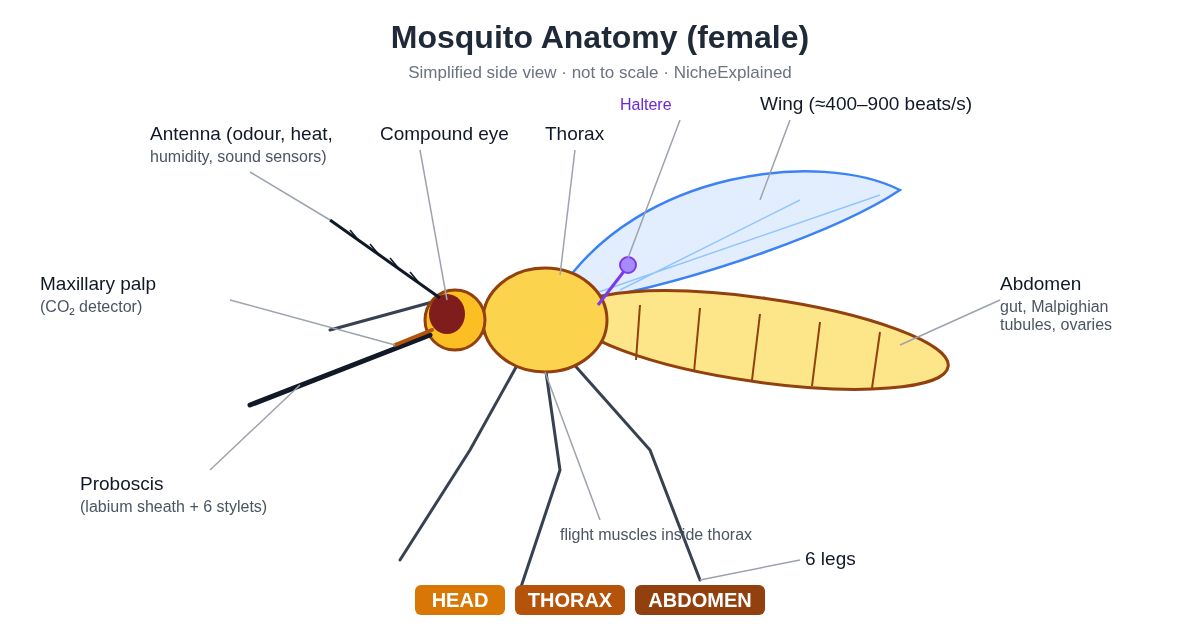
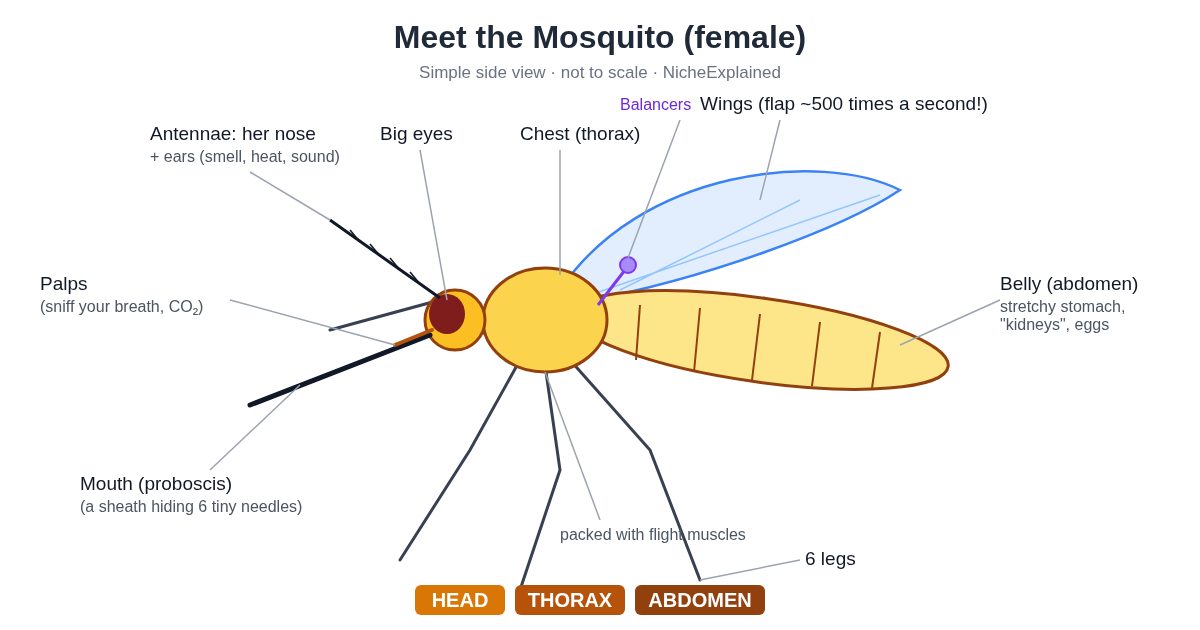
Rewrite mosquito article for general readers; simplify diagram labels

diff --git a/docs/mosquito-anatomy-explained/index.html b/docs/mosquito-anatomy-explained/index.html
@@ -3,24 +3,24 @@
 <head>
 <meta charset="utf-8">
 <meta name="viewport" content="width=device-width, initial-scale=1">
-<title>Mosquito Anatomy Explained: How Every Body Part Works (With Diagrams) | NicheExplained</title>
-<meta name="description" content="A labelled guide to mosquito anatomy: antennae and palps that sense CO2, the six-needle proboscis, wings, halteres and the abdomen, and why only females bite.">
+<title>How a Mosquito Works: 6 Tiny Needles, a Breath Detector and Other Surprises | NicheExplained</title>
+<meta name="description" content="That itchy bite starts with six tiny needles. A fun, plain-English tour of a mosquito's body, how it finds you, how a bite works, and why only females bite.">
 <link rel="canonical" href="https://aiimagecontents3-sudo.github.io/nicheexplained/mosquito-anatomy-explained/">
 <link rel="alternate" type="application/rss+xml" title="NicheExplained" href="https://aiimagecontents3-sudo.github.io/nicheexplained/feed.xml">
 <meta property="og:site_name" content="NicheExplained">
 <meta property="og:type" content="article">
-<meta property="og:title" content="Mosquito Anatomy Explained: How Every Body Part Works (With Diagrams)">
-<meta property="og:description" content="A labelled guide to mosquito anatomy: antennae and palps that sense CO2, the six-needle proboscis, wings, halteres and the abdomen, and why only females bite.">
+<meta property="og:title" content="How a Mosquito Works: 6 Tiny Needles, a Breath Detector and Other Surprises">
+<meta property="og:description" content="That itchy bite starts with six tiny needles. A fun, plain-English tour of a mosquito's body, how it finds you, how a bite works, and why only females bite.">
 <meta property="og:url" content="https://aiimagecontents3-sudo.github.io/nicheexplained/mosquito-anatomy-explained/">
 <meta property="og:image" content="https://aiimagecontents3-sudo.github.io/nicheexplained/images/mosquito/mosquito-anatomy-social.png">
 <meta name="twitter:card" content="summary_large_image">
-<meta name="twitter:title" content="Mosquito Anatomy Explained: How Every Body Part Works (With Diagrams)">
-<meta name="twitter:description" content="A labelled guide to mosquito anatomy: antennae and palps that sense CO2, the six-needle proboscis, wings, halteres and the abdomen, and why only females bite.">
+<meta name="twitter:title" content="How a Mosquito Works: 6 Tiny Needles, a Breath Detector and Other Surprises">
+<meta name="twitter:description" content="That itchy bite starts with six tiny needles. A fun, plain-English tour of a mosquito's body, how it finds you, how a bite works, and why only females bite.">
 <meta name="twitter:image" content="https://aiimagecontents3-sudo.github.io/nicheexplained/images/mosquito/mosquito-anatomy-social.png">
 
 <link rel="icon" href="/nicheexplained/favicon.svg" type="image/svg+xml">
 <link rel="stylesheet" href="/nicheexplained/style.css">
-<script type="application/ld+json">{"@context":"https://schema.org","@type":"Article","headline":"Mosquito Anatomy Explained: How Every Body Part Works (With Diagrams)","description":"A labelled guide to mosquito anatomy: antennae and palps that sense CO2, the six-needle proboscis, wings, halteres and the abdomen, and why only females bite.","datePublished":"2026-10-13T00:00:00.000Z","dateModified":"2026-10-13T00:00:00.000Z","author":{"@type":"Person","name":"NicheExplained"},"publisher":{"@type":"Organization","name":"NicheExplained"},"mainEntityOfPage":"https://aiimagecontents3-sudo.github.io/nicheexplained/mosquito-anatomy-explained/","image":"https://aiimagecontents3-sudo.github.io/nicheexplained/images/mosquito/mosquito-anatomy-social.png","wordCount":1423,"keywords":"biology, insects, science explained"}</script>
+<script type="application/ld+json">{"@context":"https://schema.org","@type":"Article","headline":"How a Mosquito Works: 6 Tiny Needles, a Breath Detector and Other Surprises","description":"That itchy bite starts with six tiny needles. A fun, plain-English tour of a mosquito's body, how it finds you, how a bite works, and why only females bite.","datePublished":"2026-10-13T00:00:00.000Z","dateModified":"2026-10-13T00:00:00.000Z","author":{"@type":"Person","name":"NicheExplained"},"publisher":{"@type":"Organization","name":"NicheExplained"},"mainEntityOfPage":"https://aiimagecontents3-sudo.github.io/nicheexplained/mosquito-anatomy-explained/","image":"https://aiimagecontents3-sudo.github.io/nicheexplained/images/mosquito/mosquito-anatomy-social.png","wordCount":1325,"keywords":"biology, insects, science explained"}</script>
 
 </head>
 <body>
@@ -30,105 +30,107 @@
 </div></header>
 <main class="wrap"><article class="post">
 <header><p class="meta"><time datetime="2026-10-13T00:00:00.000Z">13 October 2026</time> · 6 min read · biology, insects, science explained</p>
-<h1>Mosquito Anatomy Explained: How Every Body Part Works (With Diagrams)</h1><p class="lede">A labelled guide to mosquito anatomy: antennae and palps that sense CO2, the six-needle proboscis, wings, halteres and the abdomen, and why only females bite.</p></header>
+<h1>How a Mosquito Works: 6 Tiny Needles, a Breath Detector and Other Surprises</h1><p class="lede">That itchy bite starts with six tiny needles. A fun, plain-English tour of a mosquito's body, how it finds you, how a bite works, and why only females bite.</p></header>
 <aside class="box sponsor"><span class="label">Sponsor slot</span> Want to reach curious readers? <a href="/nicheexplained/about/#sponsor">Sponsor NicheExplained</a>.</aside>
-<div class="content"><p>A mosquito weighs a few milligrams, yet it packs a CO₂ detector, a heat sensor, a hearing organ, gyroscopes and a six-needle drill into that tiny frame. Here&#39;s how each part of a mosquito&#39;s body works, from head to tail — with two original diagrams.</p>
-<p><img src="../images/mosquito/mosquito-anatomy-diagram.svg" alt="Labelled side-view diagram of a female mosquito showing head, thorax and abdomen with antenna, compound eye, maxillary palp, proboscis, wing, haltere and legs"></p>
-<p>Like all insects, a mosquito has three body sections: the <strong>head</strong> (sensing and feeding), the <strong>thorax</strong> (flight and walking) and the <strong>abdomen</strong> (digestion, excretion and reproduction).</p>
-<h2>The head: a flying sensor package</h2>
-<h3>Compound eyes</h3>
-<p>Two large compound eyes wrap around most of the head. Each is made of many small lenses, giving a wide field of view that is good at spotting movement and contrast. Vision matters most at medium range: research on <em>Aedes aegypti</em> found that smelling CO₂ makes females pay more attention to dark, distinct objects — like a person.</p>
-<h3>Antennae: noses and ears</h3>
-<p>The two antennae do several jobs at once. They are covered in tiny sensory hairs (sensilla) that detect human odours such as <strong>lactic acid</strong> and ammonia — chemicals largely produced by skin bacteria breaking down sweat. Disabling a single receptor gene, <em>Ir8a</em>, makes <em>Aedes aegypti</em> females stop responding to lactic acid and become much less attracted to human odour.</p>
-<p>Antennae also help sense <strong>heat and humidity</strong> close to skin, and they are ears. At the base of each antenna sits <strong>Johnston&#39;s organ</strong>, which picks up vibrations of the antenna caused by sound. Male antennae are bushy (plumose) and their Johnston&#39;s organs hold more than 15,000 neurons — about twice the female count — because males use them to hear the wingbeat of females.</p>
-<h3>Maxillary palps: the CO₂ detector</h3>
-<p>Beside the proboscis are two short feelers called <strong>maxillary palps</strong>. In females they carry receptors for <strong>carbon dioxide</strong> and the mushroom-like odour <strong>1-octen-3-ol</strong>, both given off by people and animals. Every breath you exhale is a CO₂ plume that tells a hungry mosquito a host is near — and CO₂ also &quot;switches on&quot; her sensitivity to other host odours.</p>
-<h2>The proboscis: six needles, not one</h2>
-<p>What looks like a single needle is actually a bundle of <strong>six stylets</strong> tucked inside a flexible sheath.</p>
-<p><img src="../images/mosquito/mosquito-proboscis-stylets.svg" alt="Diagram of the mosquito proboscis: cross-section showing labrum, two mandibles, two maxillae and hypopharynx inside the labium, and a side view of the stylets entering skin to reach a capillary"></p>
+<div class="content"><p>You&#39;re drifting off to sleep. Then you hear it: that thin, whiny <em>bzzzzz</em> right next to your ear.</p>
+<p>That tiny pest weighs less than a grain of rice. Yet it carries a breath detector, a sweat sniffer, built-in ears, two mini gyroscopes and a mouth made of <strong>six tiny needles</strong>. Honestly, it&#39;s a marvel of engineering. A very annoying one.</p>
+<p>Let&#39;s take a mosquito apart (on paper) and see how each bit works.</p>
+<p><img src="../images/mosquito/mosquito-anatomy-diagram.svg" alt="Simple labelled diagram of a female mosquito: antennae, big eyes, palps, needle-like mouth, chest with wings and balancers, six legs and a stretchy belly"></p>
+<p>Like every insect, a mosquito comes in three parts: a <strong>head</strong> for sensing and eating, a <strong>chest</strong> (thorax) for flying and walking, and a <strong>belly</strong> (abdomen) for digesting and making eggs.</p>
+<h2>The head: a flying smoke detector</h2>
+<h3>Big eyes</h3>
+<p>Most of the head is two big bulging eyes. Each one is made of many tiny lenses, which makes them great at spotting movement. <strong>Did you know?</strong> Once a mosquito smells your breath, she starts paying extra attention to dark shapes nearby. That dark shape is often you.</p>
+<h3>Antennae: a nose and ears in one</h3>
+<p>Those feathery antennae are covered in tiny hairs that smell. They&#39;re tuned to the scents of your skin, like <strong>lactic acid</strong> from sweat. Fun fact: much of what she smells is made by the bacteria on your skin snacking on your sweat. Thanks, bacteria.</p>
+<p>Up close, the antennae also pick up warmth and moisture rising from your skin. And they double as ears! A sensor at the base feels the antenna wiggle when sound hits it. Males have extra-bushy antennae and about twice as many hearing cells, because they&#39;re listening for the hum of females.</p>
+<h3>Palps: the breath detector</h3>
+<p>Next to the mouth are two short feelers called <strong>palps</strong>. They sniff out <strong>carbon dioxide</strong>, the gas you breathe out. Every exhale is basically a &quot;dinner&#39;s here!&quot; sign. Smelling CO₂ also makes her more sensitive to your other smells, like turning up the volume.</p>
+<h2>The mouth: six needles, not one</h2>
+<p>What looks like one needle is really a bundle of <strong>six tiny needles</strong> (scientists call them <em>stylets</em>), tucked inside a soft outer sleeve.</p>
+<p><img src="../images/mosquito/mosquito-proboscis-stylets.svg" alt="Diagram of how a mosquito bite works: a slice through the mouth showing the drinking straw, two holders, two saws and the saliva tube inside the sheath, plus the needles entering skin to reach a blood vessel"></p>
+<p>Here&#39;s the toolkit:</p>
 <ul>
-<li><strong>Labium</strong> – the outer, lip-like sheath. It does <strong>not</strong> pierce skin; it buckles back and stays outside.</li>
-<li><strong>Maxillae (2)</strong> – stylets tipped with tiny teeth that <strong>saw</strong> through skin.</li>
-<li><strong>Mandibles (2)</strong> – help hold the tissue apart while the maxillae cut.</li>
-<li><strong>Labrum</strong> – the largest, stiffest stylet. Its groove forms the <strong>food canal</strong>, and sensors near its tip help steer it towards a blood vessel.</li>
-<li><strong>Hypopharynx</strong> – a hollow stylet carrying the <strong>saliva canal</strong>, separate from the food canal, so the mosquito can drool and drink at the same time.</li>
+<li><strong>The sleeve</strong> (labium): it never goes into your skin. It scrunches back like a pushed-up sleeve.</li>
+<li><strong>Two saws</strong> (maxillae): needles with tiny teeth that cut through skin.</li>
+<li><strong>Two holders</strong> (mandibles): they keep the hole open while the saws work.</li>
+<li><strong>The straw</strong> (labrum): the biggest needle. Blood travels up it, and its tip can &quot;smell&quot; its way to a blood vessel.</li>
+<li><strong>The spit tube</strong> (hypopharynx): it drips saliva in through its own little channel, so she can spit and sip at the same time.</li>
 </ul>
 <h3>How a bite actually works</h3>
 <ol>
-<li><strong>Landing and probing.</strong> She tests the skin, then the labium folds back as the stylet bundle (fascicle) is pushed in.</li>
-<li><strong>Sawing.</strong> Head movements drive the toothed maxillae through the skin. The fascicle is flexible and bends sideways to search beneath the surface.</li>
-<li><strong>Saliva.</strong> The hypopharynx injects saliva containing substances that stop blood clotting and widen vessels. Your immune reaction to these proteins is what makes the bite itch — and saliva is also how pathogens like dengue or malaria parasites get in.</li>
-<li><strong>Drinking.</strong> Once the labrum enters a vessel, two pumps in her head — the cibarial and pharyngeal pumps — create suction to draw blood up the food canal.</li>
+<li><strong>Land and push.</strong> The sleeve folds back and the needle bundle slides in.</li>
+<li><strong>Saw.</strong> She wiggles her head to drive the saws in. The tip is bendy and fishes around under your skin for a blood vessel.</li>
+<li><strong>Spit.</strong> Saliva goes in to stop your blood clotting and widen the vessel. <strong>That&#39;s why bites itch</strong>: your body is reacting to her spit. Sadly, that spit is also how diseases like dengue and malaria get passed on.</li>
+<li><strong>Sip.</strong> Once the straw hits a vessel, two tiny pumps in her head suck the blood up. Like a milkshake, but much grosser.</li>
 </ol>
-<h2>The thorax: the flight engine</h2>
-<p>The thorax is packed with flight muscles and carries the wings, halteres and all six legs.</p>
+<h2>The chest: the engine room</h2>
+<p>The chest is packed with flight muscles.</p>
 <ul>
-<li><strong>Wings.</strong> Mosquitoes have one pair of scaled wings and beat them astonishingly fast. Female <em>Aedes aegypti</em> average roughly <strong>500 beats per second</strong>, males around <strong>800</strong>, varying with species and temperature. That rapid beat is the high-pitched whine you hear.</li>
-<li><strong>Halteres.</strong> The second pair of wings has evolved into tiny knobbed stalks. They vibrate during flight and act like <strong>gyroscopes</strong>, detecting body rotation so the mosquito can stay stable — a feature shared by all true flies (Diptera).</li>
-<li><strong>Legs.</strong> Six long, thin legs for landing and walking. They also carry taste and touch sensors.</li>
+<li><strong>Wings:</strong> mosquitoes flap <em>ridiculously</em> fast. Females beat their wings around 500 times a second, males around 800. That&#39;s the whine you hear. <strong>Did you know?</strong> Couples match their buzzing to &quot;sing a duet&quot; before mating.</li>
+<li><strong>Balancers</strong> (halteres): instead of a second pair of wings, mosquitoes have two tiny knobbed stalks. They wobble during flight and work like a gyroscope to keep her steady. All true flies have them.</li>
+<li><strong>Legs:</strong> six long, skinny legs for landing softly (which is how she sneaks onto you).</li>
 </ul>
-<p>The wingbeat doubles as a mating call: males home in on the lower-pitched female tone, and pairs adjust their flight tones to &quot;duet&quot; before mating.</p>
-<h2>The abdomen: blood tank, kidneys and egg factory</h2>
-<p>The long, segmented abdomen holds the gut, the excretory organs and, in females, the ovaries. Its flexible membranes let it <strong>stretch enormously</strong>: in under two minutes, an <em>Aedes aegypti</em> female can more than double her body weight with blood.</p>
-<p>That&#39;s a dangerous load to fly with, so she starts urinating even before she finishes eating. The <strong>Malpighian tubules</strong> — insect kidneys — pump out a large share of the excess water and salt within about two hours, concentrating the nutritious part of the meal. Over the next day they shift towards clearing waste from blood digestion.</p>
-<p>The protein and iron in the meal fuel <strong>egg production</strong>. After feeding, a female loses interest in hosts for a while, digests, matures a batch of eggs and then looks for water to lay them.</p>
-<h2>Male vs female mosquitoes</h2>
+<h2>The belly: a stretchy fuel tank</h2>
+<p>The belly holds the stomach, the egg-making parts and some tiny tubes that work like kidneys. And it stretches. A lot. In under two minutes, a female can <strong>more than double her weight</strong> in blood. Imagine finishing lunch weighing twice as much as when you sat down.</p>
+<p>Flying like that is risky, so she starts peeing out the extra water <strong>while she&#39;s still drinking</strong>. Those kidney-like tubes flush out much of the water and salt within a couple of hours, leaving the good stuff behind.</p>
+<p>What&#39;s the good stuff for? <strong>Eggs.</strong> Blood is packed with protein, and she uses it to build a batch of eggs. Then she goes looking for water to lay them in.</p>
+<h2>Boys vs girls</h2>
 <table>
 <thead>
 <tr>
-<th>Feature</th>
+<th></th>
 <th>Female</th>
 <th>Male</th>
 </tr>
 </thead>
 <tbody><tr>
 <td>Antennae</td>
-<td>Sparse hairs</td>
-<td>Bushy, feathery</td>
+<td>Lightly hairy</td>
+<td>Big and bushy</td>
 </tr>
 <tr>
 <td>Hearing</td>
-<td>Sensitive</td>
-<td>More sensitive (≈2× Johnston&#39;s organ neurons)</td>
+<td>Good</td>
+<td>Even better</td>
 </tr>
 <tr>
-<td>Wingbeat</td>
+<td>Buzz</td>
 <td>Lower pitch</td>
 <td>Higher pitch</td>
 </tr>
 <tr>
-<td>Diet</td>
-<td>Nectar <strong>and</strong> blood</td>
-<td>Nectar / plant sugars only</td>
+<td>Food</td>
+<td>Flower nectar <strong>and</strong> blood</td>
+<td>Nectar and plant sugars only</td>
 </tr>
 <tr>
-<td>Bites?</td>
-<td>Yes</td>
-<td>No</td>
+<td>Bites you?</td>
+<td>Yes 😬</td>
+<td>Never</td>
 </tr>
 </tbody></table>
-<p>In many species (such as <em>Aedes</em> and <em>Culex</em>), males also have long maxillary palps while females&#39; are short.</p>
 <h2>Why only females bite</h2>
-<p>Both sexes drink nectar for energy. <strong>Only females need blood</strong>, because it supplies the protein required to develop eggs. Males&#39; mouthparts aren&#39;t adapted for piercing skin, so they never bite.</p>
-<h2>FAQ</h2>
+<p>Both males and females live on sugary plant nectar for energy. But a female needs extra protein to make eggs, and blood is a rich, ready-made source. Males don&#39;t make eggs, so they skip the blood entirely.</p>
+<p>So the next time one bites you, it&#39;s not personal. She&#39;s just eating for a whole batch of babies.</p>
+<h2>Quick FAQ</h2>
 <p><strong>How many needles does a mosquito have?</strong>
-Six stylets (two maxillae, two mandibles, the labrum and the hypopharynx), wrapped in a seventh part, the labium sheath.</p>
-<p><strong>How do mosquitoes find people?</strong>
-At a distance, CO₂ from breath (detected by the palps) and body odours (detected by the antennae); closer up, vision, heat and humidity.</p>
-<p><strong>Why does a mosquito bite itch?</strong>
-It&#39;s your immune response to proteins in mosquito saliva injected during the bite.</p>
-<p><strong>Why do mosquitoes buzz?</strong>
-Their wings beat several hundred times per second; the sound is that wingbeat frequency.</p>
+Six! Two saws, two holders, one straw and one spit tube, all inside a soft sleeve.</p>
+<p><strong>How do mosquitoes find me?</strong>
+From a distance they smell your breath and body odour. Up close they use their eyes and feel your warmth and moisture.</p>
+<p><strong>Why do mosquito bites itch?</strong>
+Your body is reacting to the mosquito&#39;s spit.</p>
+<p><strong>Why do they buzz?</strong>
+That&#39;s the sound of wings flapping hundreds of times a second.</p>
 <p><strong>Do mosquitoes have teeth?</strong>
-Not true teeth, but the maxillae have tiny saw-like teeth for cutting skin.</p>
+Not real teeth, but the two saw needles have tiny teeth on them.</p>
 <p><strong>Do male mosquitoes bite?</strong>
-No. Males feed only on nectar and other sugars.</p>
+No. They only drink nectar. The biters are all female.</p>
 <h2>Key takeaways</h2>
 <ul>
-<li>Antennae smell and hear; maxillary palps detect CO₂.</li>
-<li>The &quot;needle&quot; is six stylets in a sheath: two saw, two hold, one drinks, one injects saliva.</li>
-<li>Halteres keep the mosquito stable; wings beat hundreds of times per second.</li>
-<li>The abdomen stretches to take more than her body weight in blood, and Malpighian tubules quickly dump excess water.</li>
+<li>Antennae smell and hear; palps detect your breath.</li>
+<li>The &quot;needle&quot; is six needles: two saw, two hold, one sips, one spits.</li>
+<li>Wings flap hundreds of times a second; tiny balancers keep her steady.</li>
+<li>Her belly stretches to hold more than her body weight in blood.</li>
 <li>Only females bite, to get protein for their eggs.</li>
 </ul>
 <h2>Sources</h2>
@@ -147,7 +149,7 @@ No. Males feed only on nectar and other sugars.</p>
 <li>Barredo &amp; DeGennaro (2020), &quot;Not Just from Blood: Mosquito Nutrient Acquisition from Nectar Sources,&quot; <em>Trends in Parasitology</em> — <a href="https://www.cell.com/trends/parasitology/fulltext/S1471-4922(20)30040-4">https://www.cell.com/trends/parasitology/fulltext/S1471-4922(20)30040-4</a></li>
 </ul>
 </div>
-<p class="share">Share: <a href="https://twitter.com/intent/tweet?url=https%3A%2F%2Faiimagecontents3-sudo.github.io%2Fnicheexplained%2Fmosquito-anatomy-explained%2F&text=Mosquito%20Anatomy%20Explained%3A%20How%20Every%20Body%20Part%20Works%20(With%20Diagrams)" target="_blank" rel="noopener">X</a> · <a href="https://www.linkedin.com/sharing/share-offsite/?url=https%3A%2F%2Faiimagecontents3-sudo.github.io%2Fnicheexplained%2Fmosquito-anatomy-explained%2F" target="_blank" rel="noopener">LinkedIn</a> · <a href="https://www.reddit.com/submit?url=https%3A%2F%2Faiimagecontents3-sudo.github.io%2Fnicheexplained%2Fmosquito-anatomy-explained%2F&title=Mosquito%20Anatomy%20Explained%3A%20How%20Every%20Body%20Part%20Works%20(With%20Diagrams)" target="_blank" rel="noopener">Reddit</a> · <a href="mailto:?subject=Mosquito%20Anatomy%20Explained%3A%20How%20Every%20Body%20Part%20Works%20(With%20Diagrams)&body=https%3A%2F%2Faiimagecontents3-sudo.github.io%2Fnicheexplained%2Fmosquito-anatomy-explained%2F">Email</a></p>
+<p class="share">Share: <a href="https://twitter.com/intent/tweet?url=https%3A%2F%2Faiimagecontents3-sudo.github.io%2Fnicheexplained%2Fmosquito-anatomy-explained%2F&text=How%20a%20Mosquito%20Works%3A%206%20Tiny%20Needles%2C%20a%20Breath%20Detector%20and%20Other%20Surprises" target="_blank" rel="noopener">X</a> · <a href="https://www.linkedin.com/sharing/share-offsite/?url=https%3A%2F%2Faiimagecontents3-sudo.github.io%2Fnicheexplained%2Fmosquito-anatomy-explained%2F" target="_blank" rel="noopener">LinkedIn</a> · <a href="https://www.reddit.com/submit?url=https%3A%2F%2Faiimagecontents3-sudo.github.io%2Fnicheexplained%2Fmosquito-anatomy-explained%2F&title=How%20a%20Mosquito%20Works%3A%206%20Tiny%20Needles%2C%20a%20Breath%20Detector%20and%20Other%20Surprises" target="_blank" rel="noopener">Reddit</a> · <a href="mailto:?subject=How%20a%20Mosquito%20Works%3A%206%20Tiny%20Needles%2C%20a%20Breath%20Detector%20and%20Other%20Surprises&body=https%3A%2F%2Faiimagecontents3-sudo.github.io%2Fnicheexplained%2Fmosquito-anatomy-explained%2F">Email</a></p>
 </article><aside class="box newsletter"><h2>Get one niche explained, daily</h2><p>Free. No spam. Unsubscribe anytime.</p><form action="https://buttondown.com/api/emails/embed-subscribe/YOUR_BUTTONDOWN_USERNAME" method="post" target="_blank" class="nl-form">
         <label for="nl-email" class="sr">Email address</label>
         <input id="nl-email" type="email" name="email" placeholder="you@example.com" required>

diff --git a/docs/index.html b/docs/index.html
@@ -33,8 +33,8 @@
         <input id="nl-email" type="email" name="email" placeholder="you@example.com" required>
         <button type="submit">Subscribe</button></form></aside><ul class="list"><li class="card"><a href="/nicheexplained/lindy-effect-explained/"><h2>The Lindy Effect Explained: Why Old Things Tend to Last Longer</h2></a>
 <p class="meta"><time datetime="2026-10-13T00:00:00.000Z">13 October 2026</time> · 4 min read</p><p>What the Lindy effect is, where the name comes from, the maths behind it, real examples, and where the rule of thumb breaks down.</p></li>
-<li class="card"><a href="/nicheexplained/mosquito-anatomy-explained/"><h2>Mosquito Anatomy Explained: How Every Body Part Works (With Diagrams)</h2></a>
-<p class="meta"><time datetime="2026-10-13T00:00:00.000Z">13 October 2026</time> · 6 min read</p><p>A labelled guide to mosquito anatomy: antennae and palps that sense CO2, the six-needle proboscis, wings, halteres and the abdomen, and why only females bite.</p></li></ul><aside class="box sponsor"><span class="label">Sponsor slot</span> Want to reach curious readers? <a href="/nicheexplained/about/#sponsor">Sponsor NicheExplained</a>.</aside></main>
+<li class="card"><a href="/nicheexplained/mosquito-anatomy-explained/"><h2>How a Mosquito Works: 6 Tiny Needles, a Breath Detector and Other Surprises</h2></a>
+<p class="meta"><time datetime="2026-10-13T00:00:00.000Z">13 October 2026</time> · 6 min read</p><p>That itchy bite starts with six tiny needles. A fun, plain-English tour of a mosquito's body, how it finds you, how a bite works, and why only females bite.</p></li></ul><aside class="box sponsor"><span class="label">Sponsor slot</span> Want to reach curious readers? <a href="/nicheexplained/about/#sponsor">Sponsor NicheExplained</a>.</aside></main>
 <footer class="site-footer"><div class="wrap">
 <p>© 2026 NicheExplained · <a href="/nicheexplained/about/">About</a> · <a href="/nicheexplained/privacy/">Privacy</a> · <a href="/nicheexplained/feed.xml">RSS</a></p>
 </div></footer>

diff --git a/content/articles/2026-10-13-mosquito-anatomy-explained.md b/content/articles/2026-10-13-mosquito-anatomy-explained.md
@@ -1,111 +1,115 @@
 ---
-title: "Mosquito Anatomy Explained: How Every Body Part Works (With Diagrams)"
-description: "A labelled guide to mosquito anatomy: antennae and palps that sense CO2, the six-needle proboscis, wings, halteres and the abdomen, and why only females bite."
+title: "How a Mosquito Works: 6 Tiny Needles, a Breath Detector and Other Surprises"
+description: "That itchy bite starts with six tiny needles. A fun, plain-English tour of a mosquito's body, how it finds you, how a bite works, and why only females bite."
 date: 2026-10-13
 tags: [biology, insects, science explained]
 image: /images/mosquito/mosquito-anatomy-social.png
 ---
-A mosquito weighs a few milligrams, yet it packs a CO₂ detector, a heat sensor, a hearing organ, gyroscopes and a six-needle drill into that tiny frame. Here's how each part of a mosquito's body works, from head to tail — with two original diagrams.
+You're drifting off to sleep. Then you hear it: that thin, whiny *bzzzzz* right next to your ear.
 
-![Labelled side-view diagram of a female mosquito showing head, thorax and abdomen with antenna, compound eye, maxillary palp, proboscis, wing, haltere and legs](../images/mosquito/mosquito-anatomy-diagram.svg)
+That tiny pest weighs less than a grain of rice. Yet it carries a breath detector, a sweat sniffer, built-in ears, two mini gyroscopes and a mouth made of **six tiny needles**. Honestly, it's a marvel of engineering. A very annoying one.
 
-Like all insects, a mosquito has three body sections: the **head** (sensing and feeding), the **thorax** (flight and walking) and the **abdomen** (digestion, excretion and reproduction).
+Let's take a mosquito apart (on paper) and see how each bit works.
 
-## The head: a flying sensor package
+![Simple labelled diagram of a female mosquito: antennae, big eyes, palps, needle-like mouth, chest with wings and balancers, six legs and a stretchy belly](../images/mosquito/mosquito-anatomy-diagram.svg)
 
-### Compound eyes
+Like every insect, a mosquito comes in three parts: a **head** for sensing and eating, a **chest** (thorax) for flying and walking, and a **belly** (abdomen) for digesting and making eggs.
 
-Two large compound eyes wrap around most of the head. Each is made of many small lenses, giving a wide field of view that is good at spotting movement and contrast. Vision matters most at medium range: research on *Aedes aegypti* found that smelling CO₂ makes females pay more attention to dark, distinct objects — like a person.
+## The head: a flying smoke detector
 
-### Antennae: noses and ears
+### Big eyes
 
-The two antennae do several jobs at once. They are covered in tiny sensory hairs (sensilla) that detect human odours such as **lactic acid** and ammonia — chemicals largely produced by skin bacteria breaking down sweat. Disabling a single receptor gene, *Ir8a*, makes *Aedes aegypti* females stop responding to lactic acid and become much less attracted to human odour.
+Most of the head is two big bulging eyes. Each one is made of many tiny lenses, which makes them great at spotting movement. **Did you know?** Once a mosquito smells your breath, she starts paying extra attention to dark shapes nearby. That dark shape is often you.
 
-Antennae also help sense **heat and humidity** close to skin, and they are ears. At the base of each antenna sits **Johnston's organ**, which picks up vibrations of the antenna caused by sound. Male antennae are bushy (plumose) and their Johnston's organs hold more than 15,000 neurons — about twice the female count — because males use them to hear the wingbeat of females.
+### Antennae: a nose and ears in one
 
-### Maxillary palps: the CO₂ detector
+Those feathery antennae are covered in tiny hairs that smell. They're tuned to the scents of your skin, like **lactic acid** from sweat. Fun fact: much of what she smells is made by the bacteria on your skin snacking on your sweat. Thanks, bacteria.
 
-Beside the proboscis are two short feelers called **maxillary palps**. In females they carry receptors for **carbon dioxide** and the mushroom-like odour **1-octen-3-ol**, both given off by people and animals. Every breath you exhale is a CO₂ plume that tells a hungry mosquito a host is near — and CO₂ also "switches on" her sensitivity to other host odours.
+Up close, the antennae also pick up warmth and moisture rising from your skin. And they double as ears! A sensor at the base feels the antenna wiggle when sound hits it. Males have extra-bushy antennae and about twice as many hearing cells, because they're listening for the hum of females.
 
-## The proboscis: six needles, not one
+### Palps: the breath detector
 
-What looks like a single needle is actually a bundle of **six stylets** tucked inside a flexible sheath.
+Next to the mouth are two short feelers called **palps**. They sniff out **carbon dioxide**, the gas you breathe out. Every exhale is basically a "dinner's here!" sign. Smelling CO₂ also makes her more sensitive to your other smells, like turning up the volume.
 
-![Diagram of the mosquito proboscis: cross-section showing labrum, two mandibles, two maxillae and hypopharynx inside the labium, and a side view of the stylets entering skin to reach a capillary](../images/mosquito/mosquito-proboscis-stylets.svg)
+## The mouth: six needles, not one
 
-- **Labium** – the outer, lip-like sheath. It does **not** pierce skin; it buckles back and stays outside.
-- **Maxillae (2)** – stylets tipped with tiny teeth that **saw** through skin.
-- **Mandibles (2)** – help hold the tissue apart while the maxillae cut.
-- **Labrum** – the largest, stiffest stylet. Its groove forms the **food canal**, and sensors near its tip help steer it towards a blood vessel.
-- **Hypopharynx** – a hollow stylet carrying the **saliva canal**, separate from the food canal, so the mosquito can drool and drink at the same time.
+What looks like one needle is really a bundle of **six tiny needles** (scientists call them *stylets*), tucked inside a soft outer sleeve.
+
+![Diagram of how a mosquito bite works: a slice through the mouth showing the drinking straw, two holders, two saws and the saliva tube inside the sheath, plus the needles entering skin to reach a blood vessel](../images/mosquito/mosquito-proboscis-stylets.svg)
+
+Here's the toolkit:
+
+- **The sleeve** (labium): it never goes into your skin. It scrunches back like a pushed-up sleeve.
+- **Two saws** (maxillae): needles with tiny teeth that cut through skin.
+- **Two holders** (mandibles): they keep the hole open while the saws work.
+- **The straw** (labrum): the biggest needle. Blood travels up it, and its tip can "smell" its way to a blood vessel.
+- **The spit tube** (hypopharynx): it drips saliva in through its own little channel, so she can spit and sip at the same time.
 
 ### How a bite actually works
 
-1. **Landing and probing.** She tests the skin, then the labium folds back as the stylet bundle (fascicle) is pushed in.
-2. **Sawing.** Head movements drive the toothed maxillae through the skin. The fascicle is flexible and bends sideways to search beneath the surface.
-3. **Saliva.** The hypopharynx injects saliva containing substances that stop blood clotting and widen vessels. Your immune reaction to these proteins is what makes the bite itch — and saliva is also how pathogens like dengue or malaria parasites get in.
-4. **Drinking.** Once the labrum enters a vessel, two pumps in her head — the cibarial and pharyngeal pumps — create suction to draw blood up the food canal.
+1. **Land and push.** The sleeve folds back and the needle bundle slides in.
+2. **Saw.** She wiggles her head to drive the saws in. The tip is bendy and fishes around under your skin for a blood vessel.
+3. **Spit.** Saliva goes in to stop your blood clotting and widen the vessel. **That's why bites itch**: your body is reacting to her spit. Sadly, that spit is also how diseases like dengue and malaria get passed on.
+4. **Sip.** Once the straw hits a vessel, two tiny pumps in her head suck the blood up. Like a milkshake, but much grosser.
 
-## The thorax: the flight engine
+## The chest: the engine room
 
-The thorax is packed with flight muscles and carries the wings, halteres and all six legs.
+The chest is packed with flight muscles.
 
-- **Wings.** Mosquitoes have one pair of scaled wings and beat them astonishingly fast. Female *Aedes aegypti* average roughly **500 beats per second**, males around **800**, varying with species and temperature. That rapid beat is the high-pitched whine you hear.
-- **Halteres.** The second pair of wings has evolved into tiny knobbed stalks. They vibrate during flight and act like **gyroscopes**, detecting body rotation so the mosquito can stay stable — a feature shared by all true flies (Diptera).
-- **Legs.** Six long, thin legs for landing and walking. They also carry taste and touch sensors.
+- **Wings:** mosquitoes flap *ridiculously* fast. Females beat their wings around 500 times a second, males around 800. That's the whine you hear. **Did you know?** Couples match their buzzing to "sing a duet" before mating.
+- **Balancers** (halteres): instead of a second pair of wings, mosquitoes have two tiny knobbed stalks. They wobble during flight and work like a gyroscope to keep her steady. All true flies have them.
+- **Legs:** six long, skinny legs for landing softly (which is how she sneaks onto you).
 
-The wingbeat doubles as a mating call: males home in on the lower-pitched female tone, and pairs adjust their flight tones to "duet" before mating.
+## The belly: a stretchy fuel tank
 
-## The abdomen: blood tank, kidneys and egg factory
+The belly holds the stomach, the egg-making parts and some tiny tubes that work like kidneys. And it stretches. A lot. In under two minutes, a female can **more than double her weight** in blood. Imagine finishing lunch weighing twice as much as when you sat down.
 
-The long, segmented abdomen holds the gut, the excretory organs and, in females, the ovaries. Its flexible membranes let it **stretch enormously**: in under two minutes, an *Aedes aegypti* female can more than double her body weight with blood.
+Flying like that is risky, so she starts peeing out the extra water **while she's still drinking**. Those kidney-like tubes flush out much of the water and salt within a couple of hours, leaving the good stuff behind.
 
-That's a dangerous load to fly with, so she starts urinating even before she finishes eating. The **Malpighian tubules** — insect kidneys — pump out a large share of the excess water and salt within about two hours, concentrating the nutritious part of the meal. Over the next day they shift towards clearing waste from blood digestion.
+What's the good stuff for? **Eggs.** Blood is packed with protein, and she uses it to build a batch of eggs. Then she goes looking for water to lay them in.
 
-The protein and iron in the meal fuel **egg production**. After feeding, a female loses interest in hosts for a while, digests, matures a batch of eggs and then looks for water to lay them.
+## Boys vs girls
 
-## Male vs female mosquitoes
-
-| Feature | Female | Male |
+| | Female | Male |
 |---|---|---|
-| Antennae | Sparse hairs | Bushy, feathery |
-| Hearing | Sensitive | More sensitive (≈2× Johnston's organ neurons) |
-| Wingbeat | Lower pitch | Higher pitch |
-| Diet | Nectar **and** blood | Nectar / plant sugars only |
-| Bites? | Yes | No |
-
-In many species (such as *Aedes* and *Culex*), males also have long maxillary palps while females' are short.
+| Antennae | Lightly hairy | Big and bushy |
+| Hearing | Good | Even better |
+| Buzz | Lower pitch | Higher pitch |
+| Food | Flower nectar **and** blood | Nectar and plant sugars only |
+| Bites you? | Yes 😬 | Never |
 
 ## Why only females bite
 
-Both sexes drink nectar for energy. **Only females need blood**, because it supplies the protein required to develop eggs. Males' mouthparts aren't adapted for piercing skin, so they never bite.
+Both males and females live on sugary plant nectar for energy. But a female needs extra protein to make eggs, and blood is a rich, ready-made source. Males don't make eggs, so they skip the blood entirely.
 
-## FAQ
+So the next time one bites you, it's not personal. She's just eating for a whole batch of babies.
+
+## Quick FAQ
 
 **How many needles does a mosquito have?**
-Six stylets (two maxillae, two mandibles, the labrum and the hypopharynx), wrapped in a seventh part, the labium sheath.
+Six! Two saws, two holders, one straw and one spit tube, all inside a soft sleeve.
 
-**How do mosquitoes find people?**
-At a distance, CO₂ from breath (detected by the palps) and body odours (detected by the antennae); closer up, vision, heat and humidity.
+**How do mosquitoes find me?**
+From a distance they smell your breath and body odour. Up close they use their eyes and feel your warmth and moisture.
 
-**Why does a mosquito bite itch?**
-It's your immune response to proteins in mosquito saliva injected during the bite.
+**Why do mosquito bites itch?**
+Your body is reacting to the mosquito's spit.
 
-**Why do mosquitoes buzz?**
-Their wings beat several hundred times per second; the sound is that wingbeat frequency.
+**Why do they buzz?**
+That's the sound of wings flapping hundreds of times a second.
 
 **Do mosquitoes have teeth?**
-Not true teeth, but the maxillae have tiny saw-like teeth for cutting skin.
+Not real teeth, but the two saw needles have tiny teeth on them.
 
 **Do male mosquitoes bite?**
-No. Males feed only on nectar and other sugars.
+No. They only drink nectar. The biters are all female.
 
 ## Key takeaways
 
-- Antennae smell and hear; maxillary palps detect CO₂.
-- The "needle" is six stylets in a sheath: two saw, two hold, one drinks, one injects saliva.
-- Halteres keep the mosquito stable; wings beat hundreds of times per second.
-- The abdomen stretches to take more than her body weight in blood, and Malpighian tubules quickly dump excess water.
+- Antennae smell and hear; palps detect your breath.
+- The "needle" is six needles: two saw, two hold, one sips, one spits.
+- Wings flap hundreds of times a second; tiny balancers keep her steady.
+- Her belly stretches to hold more than her body weight in blood.
 - Only females bite, to get protein for their eggs.
 
 ## Sources
